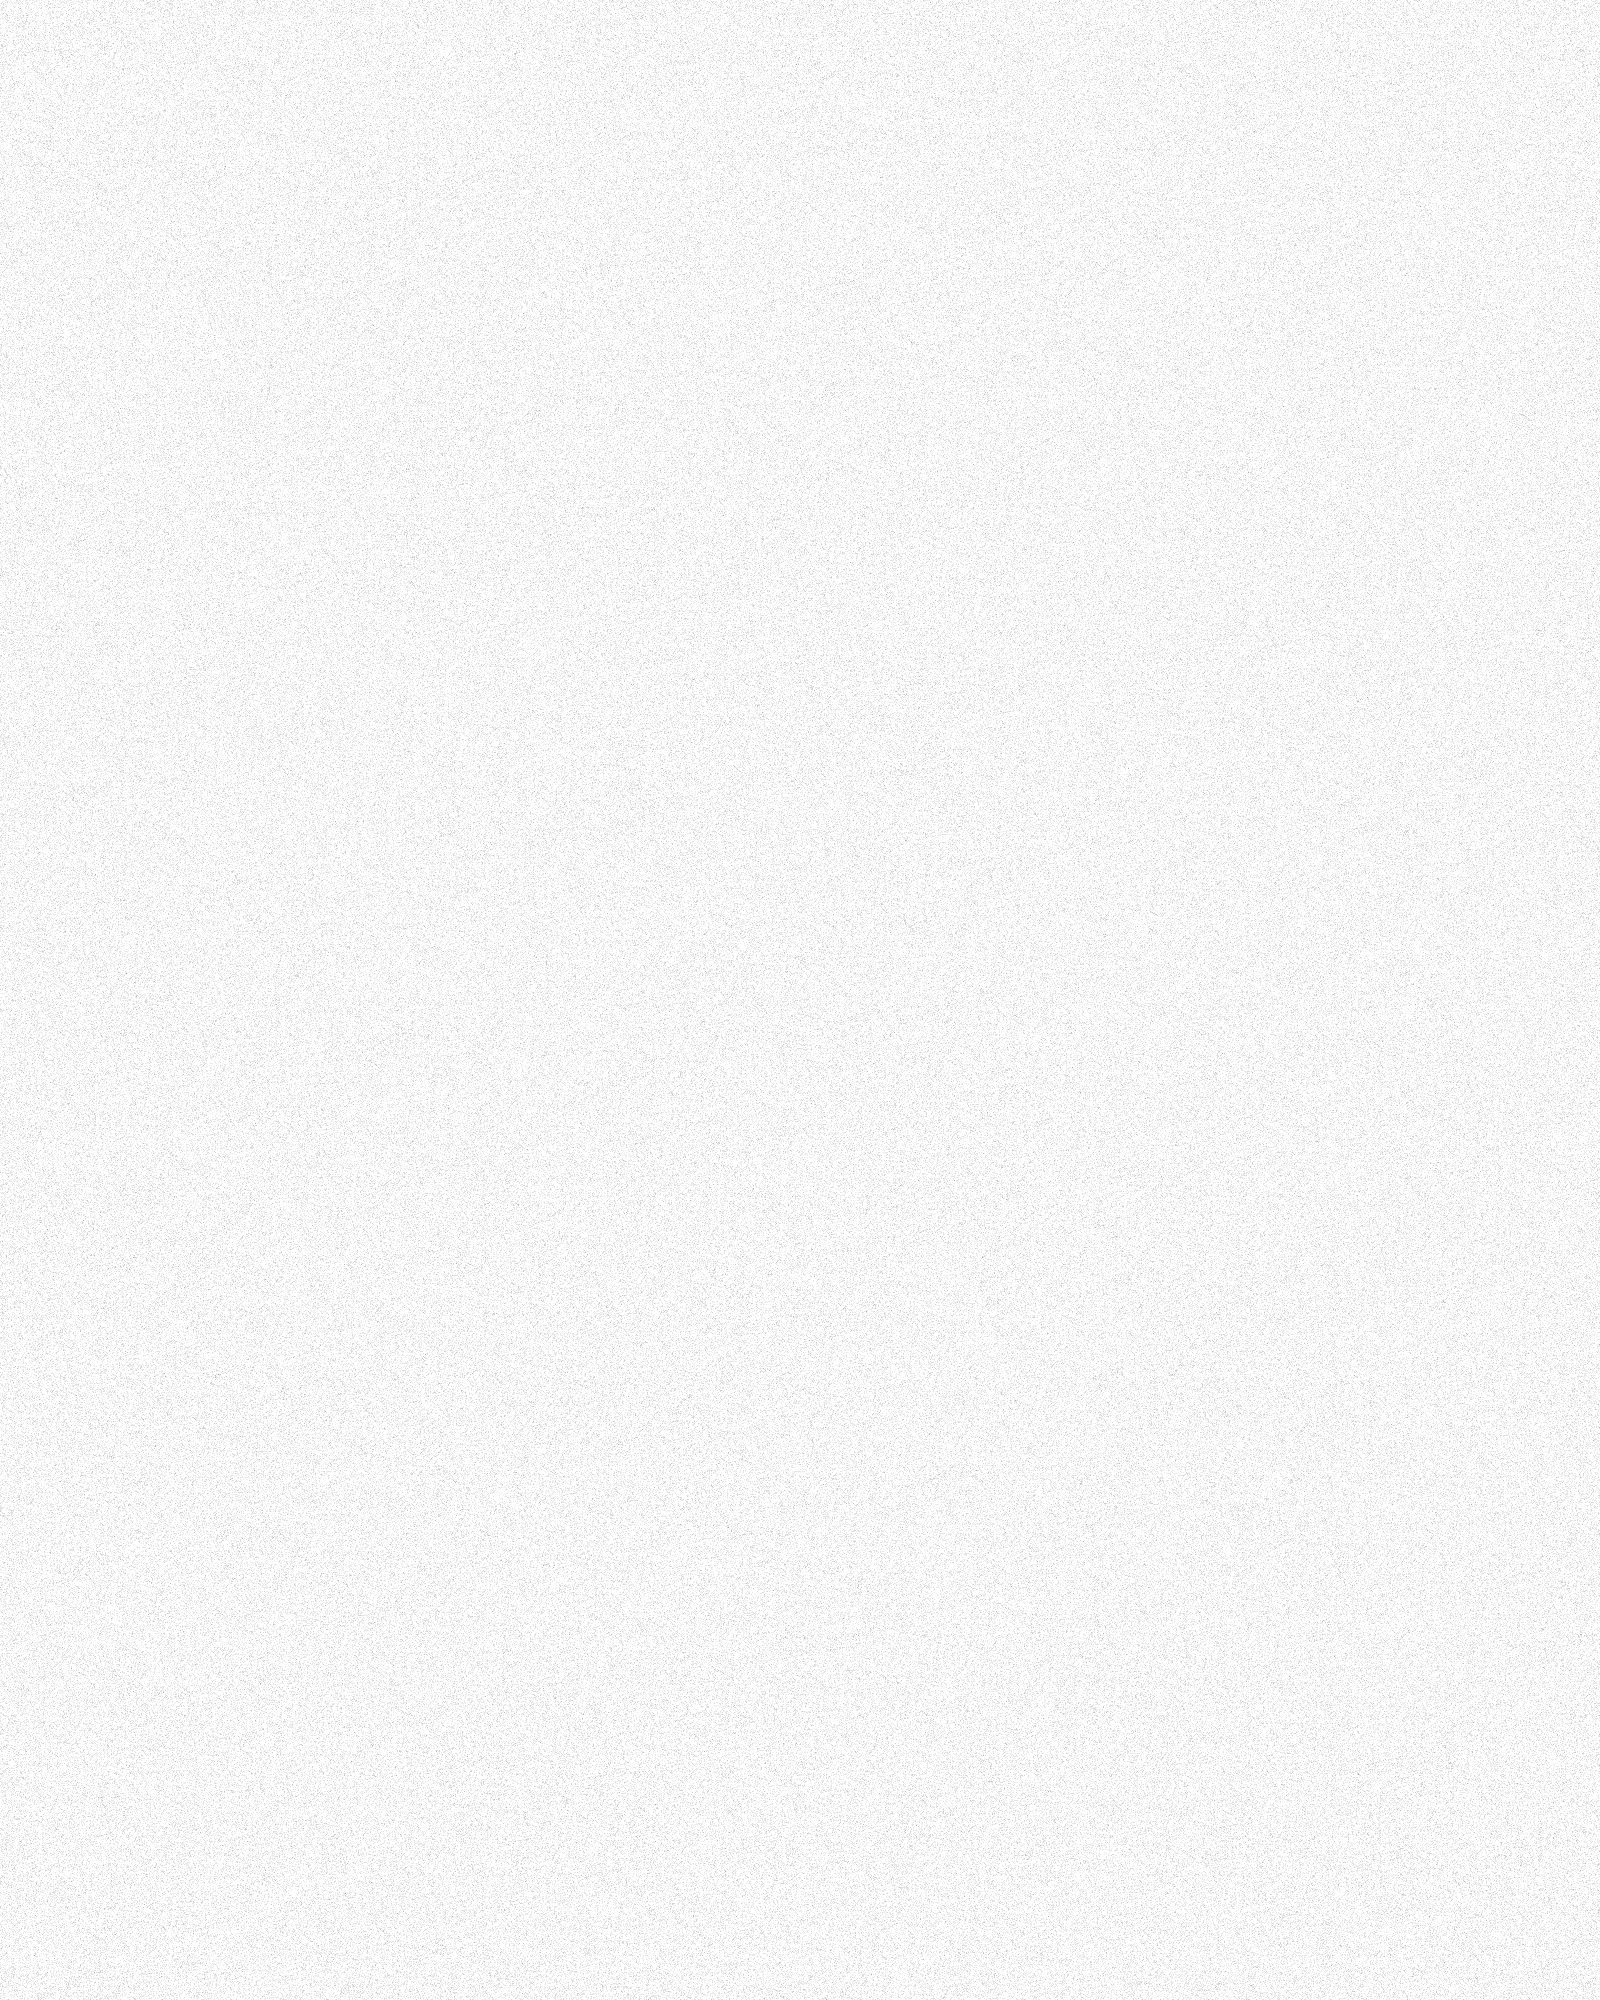
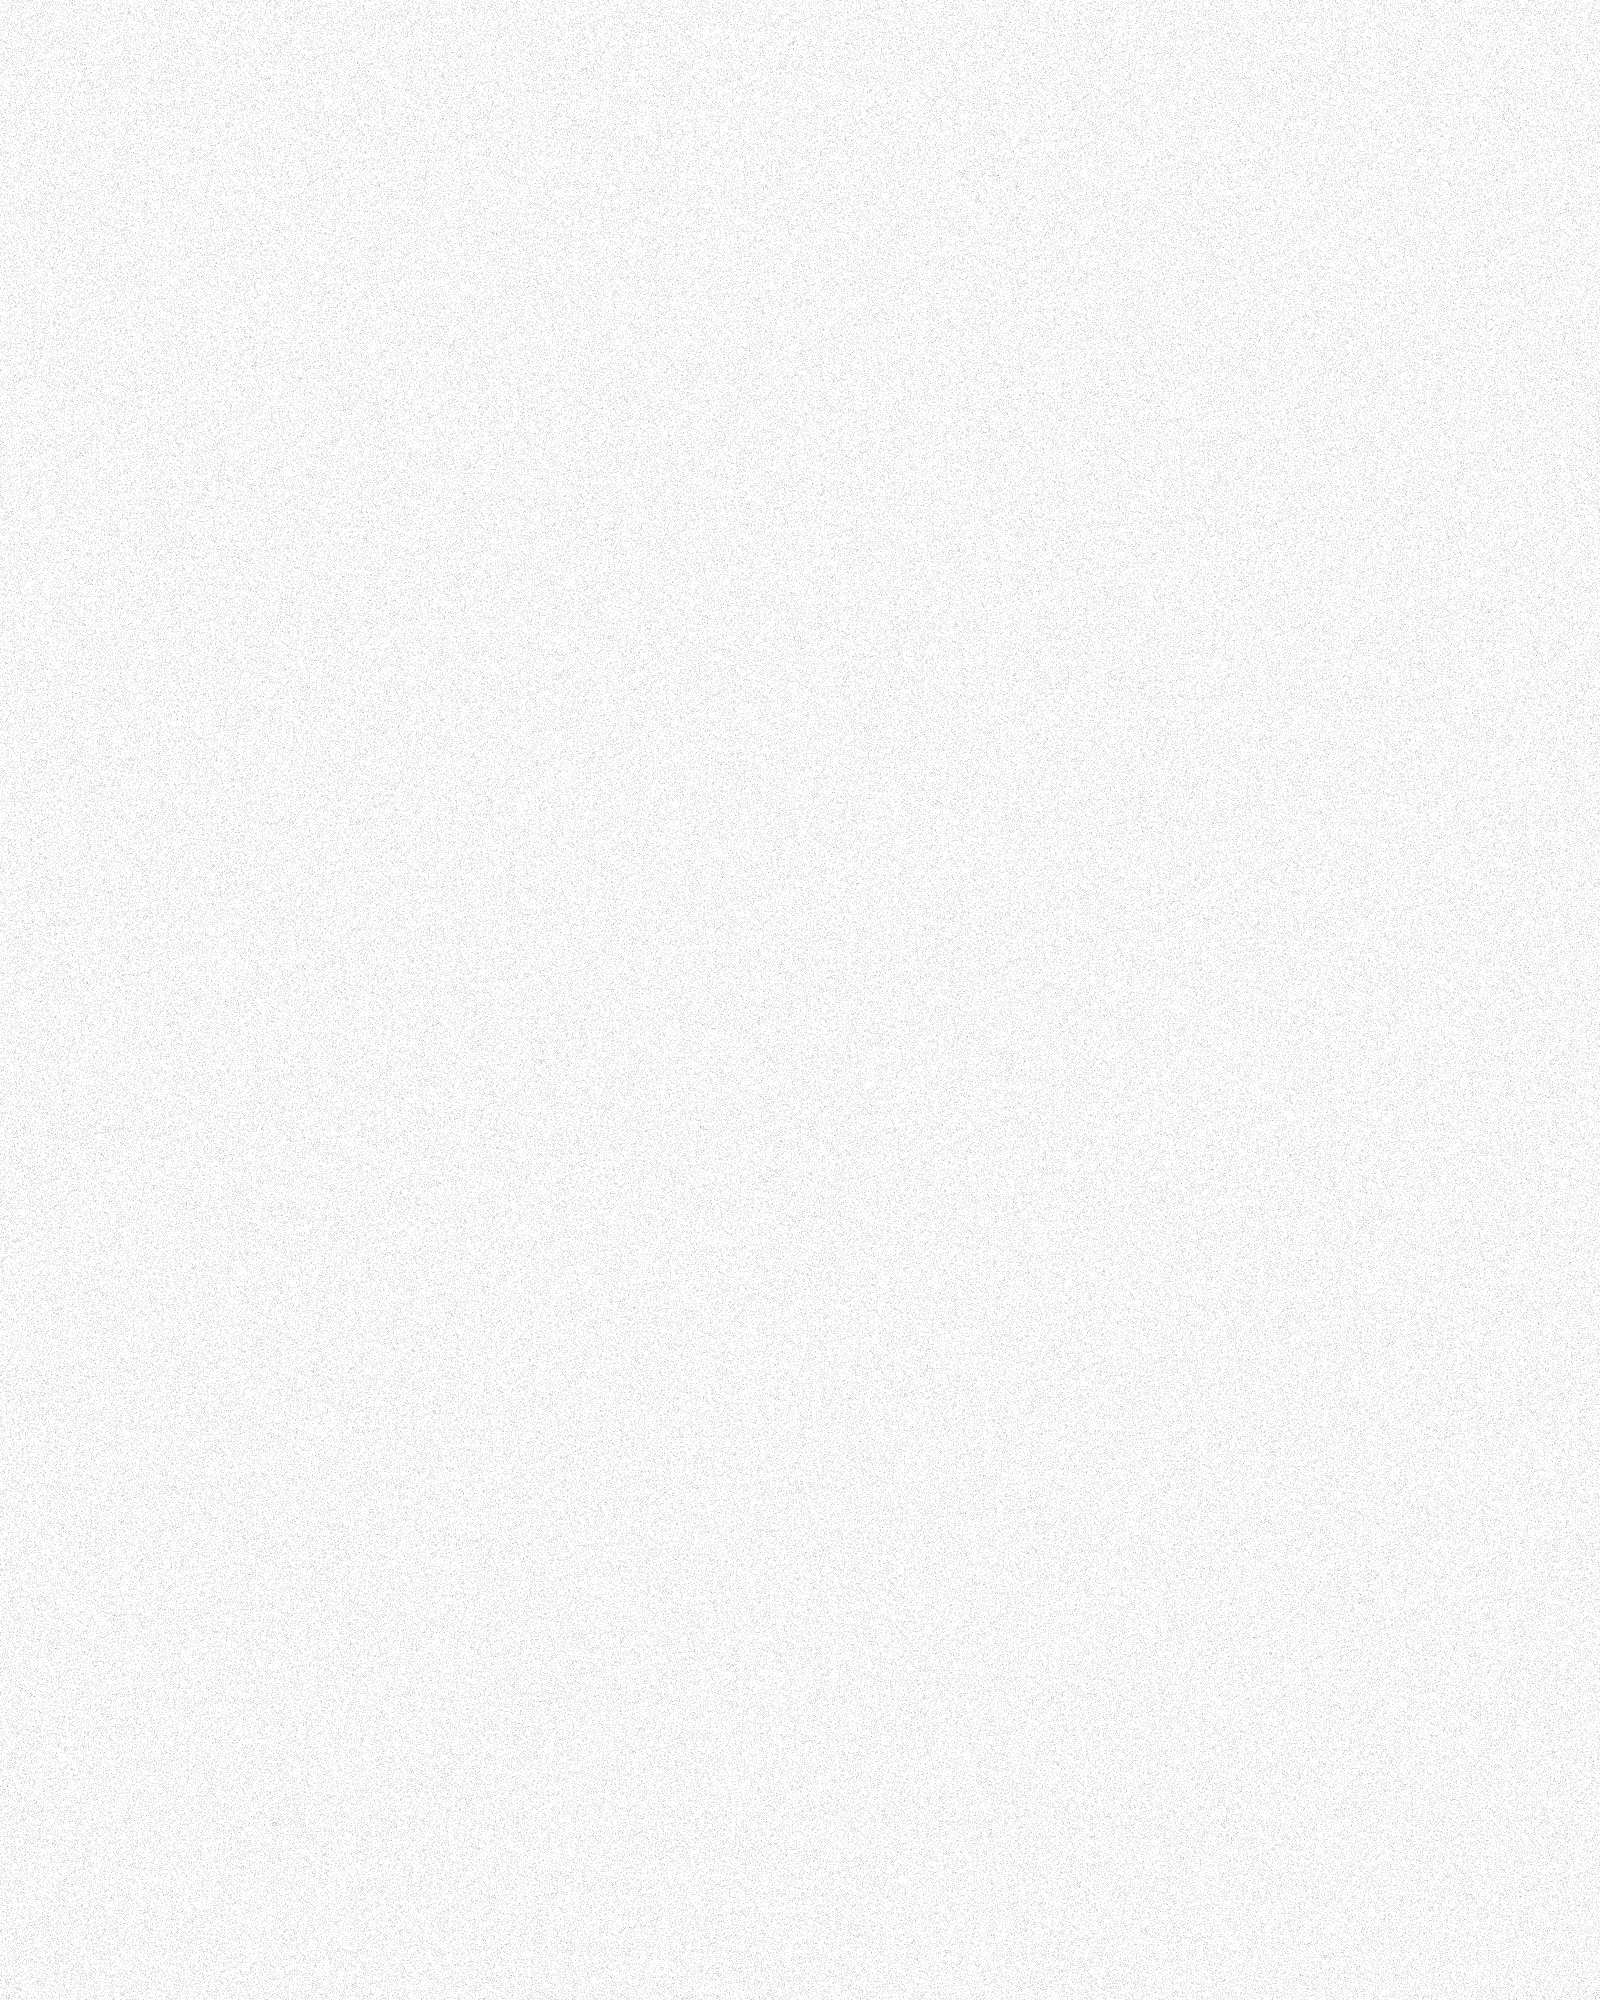
fix noise

Changed region(s): [[0.0, 0.0, 1.0, 1.0]]

diff --git a/frontend/src/styles/globals.scss b/frontend/src/styles/globals.scss
@@ -12,11 +12,7 @@ body::after {
   z-index: 9999;
   background-size: cover;
   opacity: 0.9;
-  /* Настрой интенсивность шума */
   pointer-events: none;
-  /* Чтобы не мешало кликам */
-
-  mix-blend-mode: soft-light;
   /* Минимальное влияние на цвета */
   mix-blend-mode: multiply;
 }
@@ -30,7 +26,7 @@ body::after {
     background-image: url('/images/noise2.png');
   }
 
-  50% {
+  75% {
     background-image: url('/images/noise3.png');
   }
 
